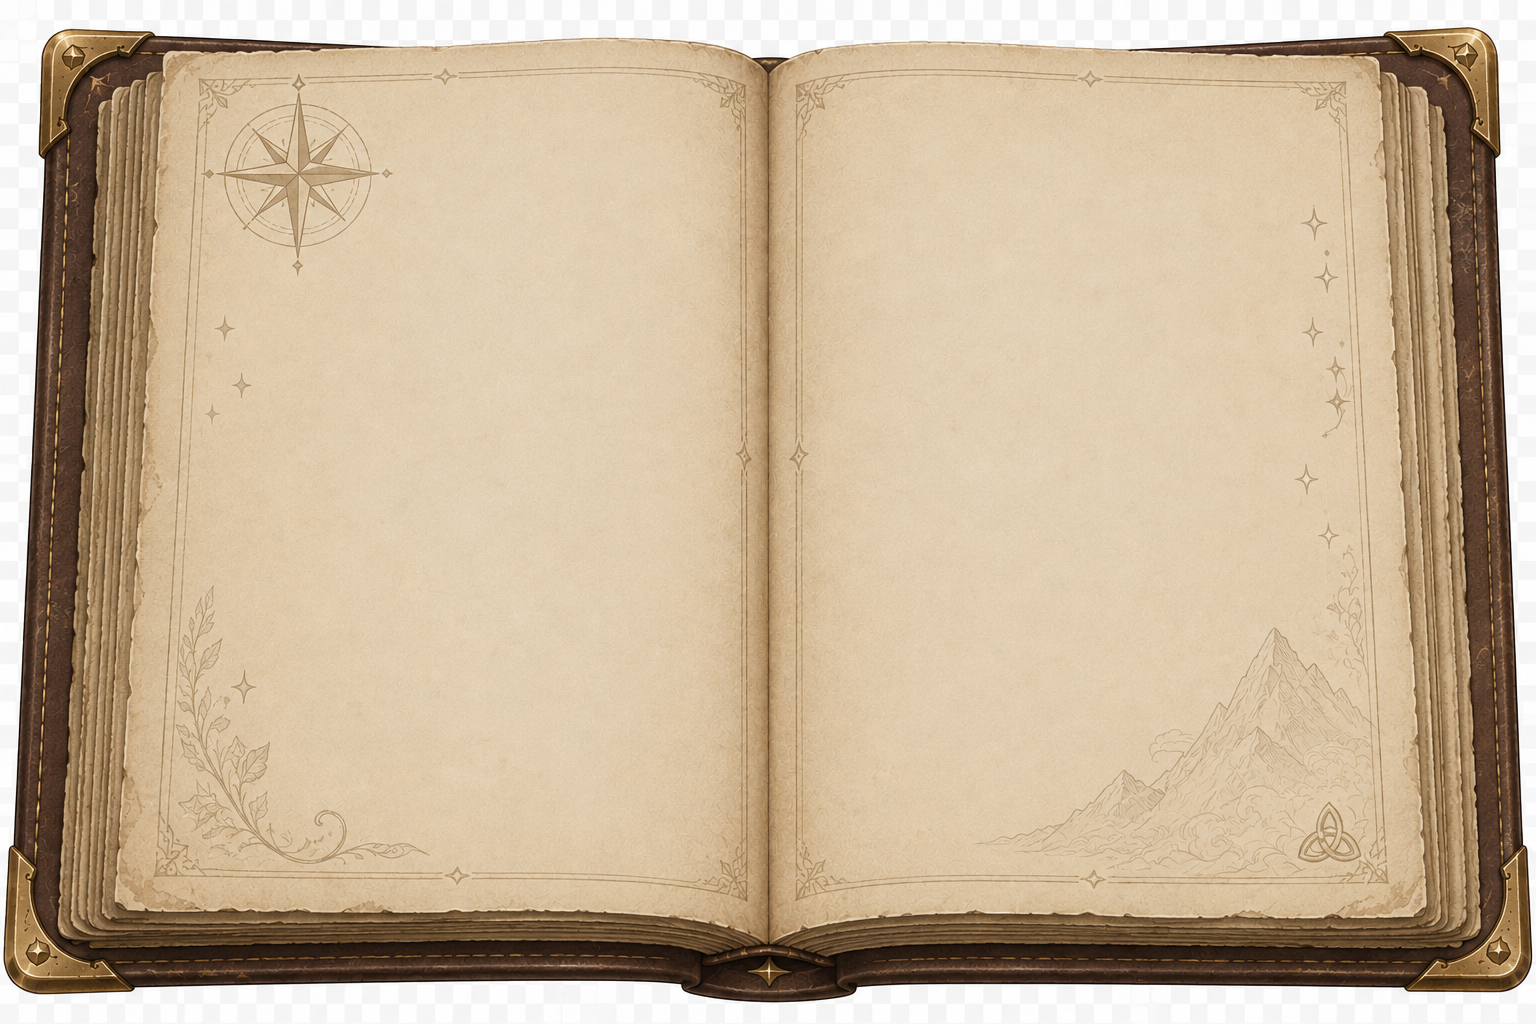
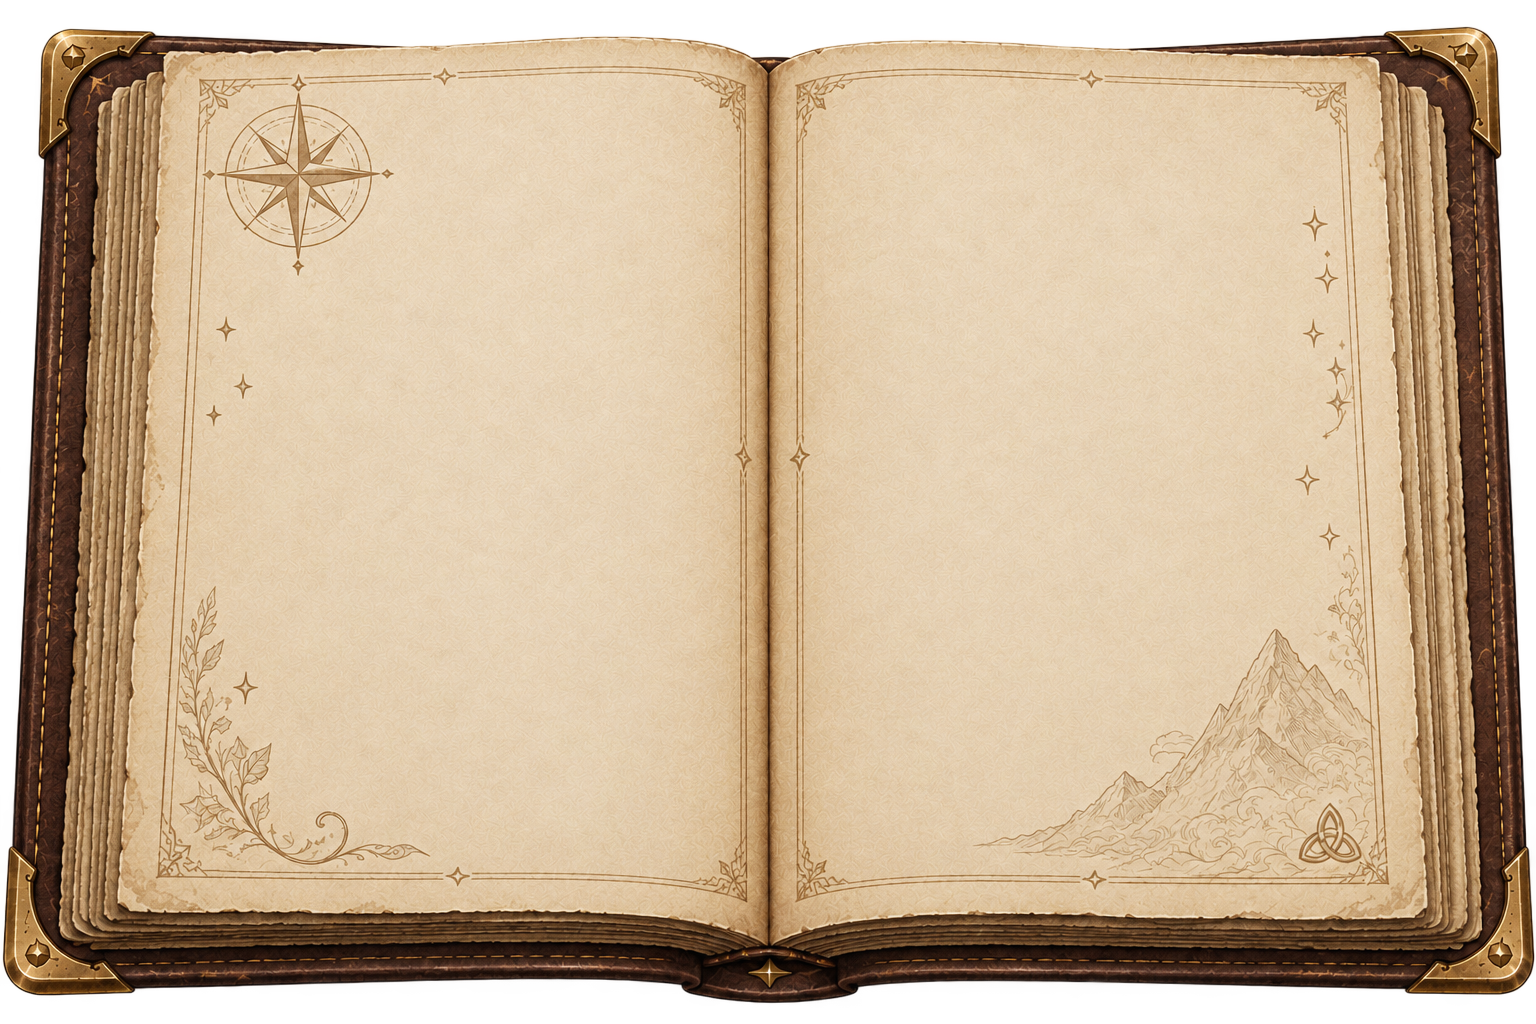
tentative de modification pour meilleur affichage livre

diff --git a/resources/views/personnages/partials/book.blade.php b/resources/views/personnages/partials/book.blade.php
@@ -123,13 +123,22 @@
             display: flex;
             justify-content: center;
             perspective: 2200px;
+            max-width: 100%;
         }
 
         .tb-book {
             position: relative;
             perspective: 2000px;
-            width: min(1240px, calc(100vw - 90px));
-            height: 780px;
+            /* Largeur relative au conteneur réel (pas à 100vw, qui ignore le
+               padding/max-width du layout du site et provoquait un
+               débordement horizontal sur les écrans plus étroits). */
+            width: min(1320px, calc(100% - 148px));
+            /* Décale le centrage flex pour compenser les marque-pages qui
+               dépassent de 148px à droite (position:absolute, donc ignorés
+               par le calcul de centrage) : ainsi c'est bien l'ensemble
+               livre+onglets qui est centré, pas juste le livre seul. */
+            margin-right: 148px;
+            height: 860px;
             padding: 20px;
             border: 1px solid rgba(193, 142, 60, 0.58);
             border-radius: 14px 22px 22px 14px;
@@ -176,7 +185,7 @@
             grid-template-columns: 1fr 1fr;
             width: 100%;
             height: auto;
-            min-height: 738px;
+            min-height: 818px;
             overflow: hidden;
             border: 1px solid rgba(111, 76, 36, 0.45);
             border-radius: 10px;
@@ -196,10 +205,10 @@
         }
 
         .tb-book-spread {
-            min-height: 738px;
+            min-height: 818px;
             border: 0;
             border-radius: 0;
-            background: url("{{ asset('images/book-background.png') }}") center / 118% 118% no-repeat;
+            background: var(--paper) url("{{ asset('images/book-background.png') }}") center / contain no-repeat;
             box-shadow: none;
         }
 
@@ -229,9 +238,9 @@
             position: relative;
             min-width: 0;
             height: auto;
-            min-height: 738px;
+            min-height: 818px;
             overflow: visible;
-            padding: 28px;
+            padding: 44px 40px;
             background:
                 radial-gradient(circle at 85% 15%, rgba(255, 255, 255, 0.47), transparent 22%),
                 radial-gradient(circle at 10% 90%, rgba(187, 139, 76, 0.13), transparent 35%),
@@ -519,7 +528,7 @@
 
         .tb-profile-gallery .tb-profile-polaroid {
             position: absolute;
-            inset: 12px 8px auto;
+            inset: 34px 30px auto;
             margin: 0 auto;
             width: auto;
             z-index: 2;
@@ -528,7 +537,7 @@
         .tb-splash-polaroid {
             position: absolute;
             z-index: 1;
-            inset: 28px 8px auto;
+            inset: 50px 30px auto;
             width: auto;
             padding: 14px 14px 58px;
             background: #eadcc2;
@@ -552,7 +561,7 @@
         .tb-profile-polaroid.is-photo-front {
             position: absolute;
             z-index: 2;
-            inset: 12px 8px auto;
+            inset: 34px 30px auto;
             margin: 0;
             width: auto;
             transition: z-index 0ms linear 180ms, transform 180ms ease, opacity 180ms ease;
@@ -1365,33 +1374,6 @@
             font-size: 14px;
         }
 
-        .tb-book-navigation {
-            display: flex;
-            justify-content: center;
-            gap: 11px;
-            margin-top: 18px;
-        }
-
-        .tb-nav-button {
-            min-width: 128px;
-            padding: 10px 15px;
-            color: #f3dfb2;
-            cursor: pointer;
-            border: 1px solid rgba(225, 178, 89, 0.45);
-            border-radius: 7px;
-            background: rgba(19, 35, 57, 0.75);
-            box-shadow: 0 5px 12px rgba(0, 0, 0, 0.24);
-        }
-
-        .tb-nav-button:hover:not(:disabled) {
-            background: #2c496c;
-        }
-
-        .tb-nav-button:disabled {
-            cursor: not-allowed;
-            opacity: 0.45;
-        }
-
         .tb-footer-note {
             margin-top: 22px;
             color: #c7d7ed;
@@ -1403,7 +1385,8 @@
 
         @media (max-width: 1120px) {
             .tb-book {
-                width: min(950px, calc(100vw - 45px));
+                width: min(950px, 100%);
+                margin-right: 0;
             }
 
             .tb-book-tabs {
@@ -1550,14 +1533,14 @@
            plutôt que d'être clippé à une hauteur fixe comme dans la maquette statique. */
         .tb-book {
             height: auto;
-            min-height: 780px;
+            min-height: 860px;
         }
         .tb-book-spread {
-            min-height: 738px;
+            min-height: 818px;
             height: auto;
             border: 0;
             border-radius: 0;
-            background: url("{{ asset('images/book-background.png') }}") center / 118% 118% no-repeat;
+            background: var(--paper) url("{{ asset('images/book-background.png') }}") center / contain no-repeat;
             box-shadow: none;
         }
         .tb-book-page {
@@ -1626,7 +1609,6 @@
         .tb-tag.is-current { background: var(--gold); color: #241a08; border-color: var(--gold); }
         .tb-story-ref { display: inline-flex; align-items: center; gap: 4px; color: var(--gold, #b8863d); text-decoration: underline; }
         .tb-story-ref img { width: 16px; height: 16px; border-radius: 4px; object-fit: cover; }
-        .tb-nav-button:disabled { opacity: 0.35; cursor: not-allowed; }
 
     /* --- Styles réutilisés des widgets existants (armes/artefacts/rotations/constellations) --- */
     .character-show-hero { --csh-panel: rgba(13, 18, 42, 0.72); --csh-border: rgba(255,255,255,0.12); --csh-text: #eef2ff; --csh-muted: #bdc8ec; --csh-accent: #6fd0be; max-width: min(2100px, 98vw); margin:0 auto 2.5rem; padding:2.35rem; position:relative; border-radius: 22px; border:1px solid var(--csh-border); background: linear-gradient(160deg, rgba(255,255,255,0.065), rgba(255,255,255,0.015)), linear-gradient(180deg, rgba(10,15,35,0.9), rgba(10,15,35,0.74)); box-shadow: 0 24px 56px rgba(5,9,28,0.52), inset 0 1px 0 rgba(255,255,255,0.07); display:grid; grid-template-columns: clamp(260px,22vw,400px) minmax(0,1fr); grid-template-areas: "portrait hero" "portrait video" "portrait meta"; column-gap: 1.8rem; row-gap:1.15rem; align-items:start; color: var(--csh-text); font-family:'Space Grotesk', 'Trebuchet MS', sans-serif; }
@@ -2349,8 +2331,8 @@ document.addEventListener('alpine:init', () => {
                                         <text class="tb-radar-label" x="50" y="9">PV</text>
                                         <text class="tb-radar-label" x="82" y="25">ATQ</text>
                                         <text class="tb-radar-label" x="86" y="68">DEF</text>
-                                        <text class="tb-radar-label" x="66" y="96">Taux CRIT</text>
-                                        <text class="tb-radar-label" x="34" y="96">Dégâts CRIT</text>
+                                        <text class="tb-radar-label" text-anchor="start" x="70" y="97">Taux CRIT</text>
+                                        <text class="tb-radar-label" text-anchor="end" x="30" y="97">Dégâts CRIT</text>
                                         <text class="tb-radar-label" x="14" y="68">Recharge</text>
                                         <text class="tb-radar-label" x="18" y="25">Maîtrise</text>
                                     </svg>
@@ -2555,11 +2537,6 @@ document.addEventListener('alpine:init', () => {
                 <button type="button" class="tb-book-tab tb-teams-tab" :class="activeTab === 'teams' ? 'tb-active' : ''" @click="changeSection('teams')"><span>05</span>Équipes / Réactions</button>
             </nav>
         </section>
-    </div>
-
-    <div class="tb-book-navigation">
-        <button type="button" class="tb-nav-button" :disabled="activeTabIndex === 0" @click="prevSection()">← Précédent</button>
-        <button type="button" class="tb-nav-button" :disabled="activeTabIndex === tabsOrder.length - 1" @click="nextSection()">Suivant →</button>
     </div>
 
     {{-- Modales (hors des pages, restent accessibles quel que soit l'onglet actif) --}}
